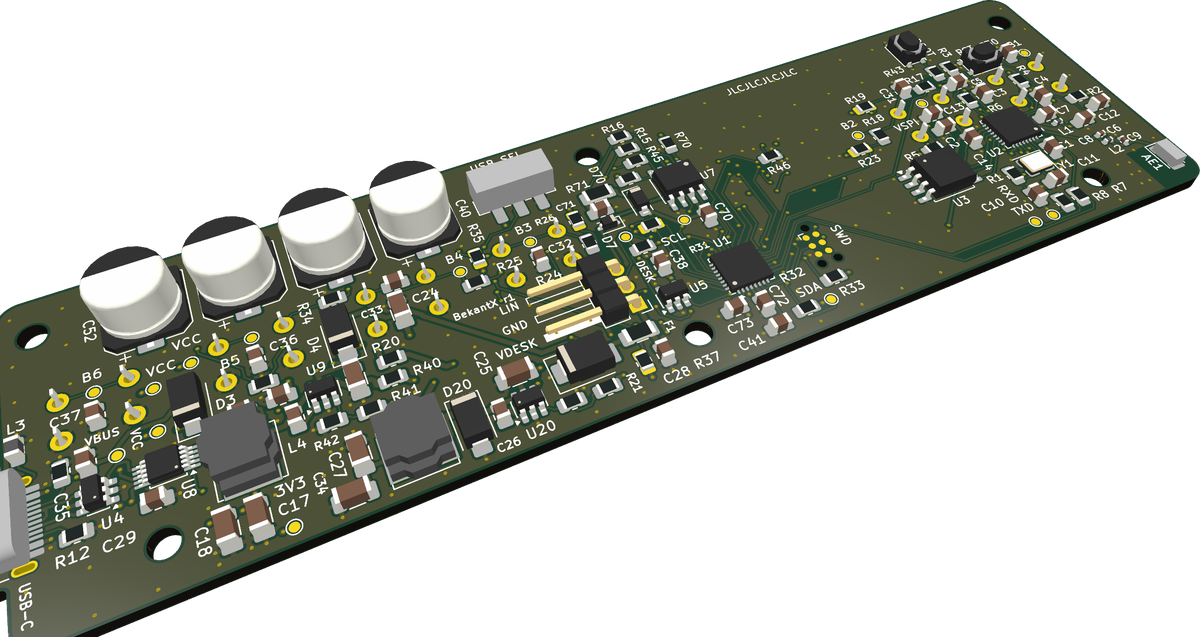
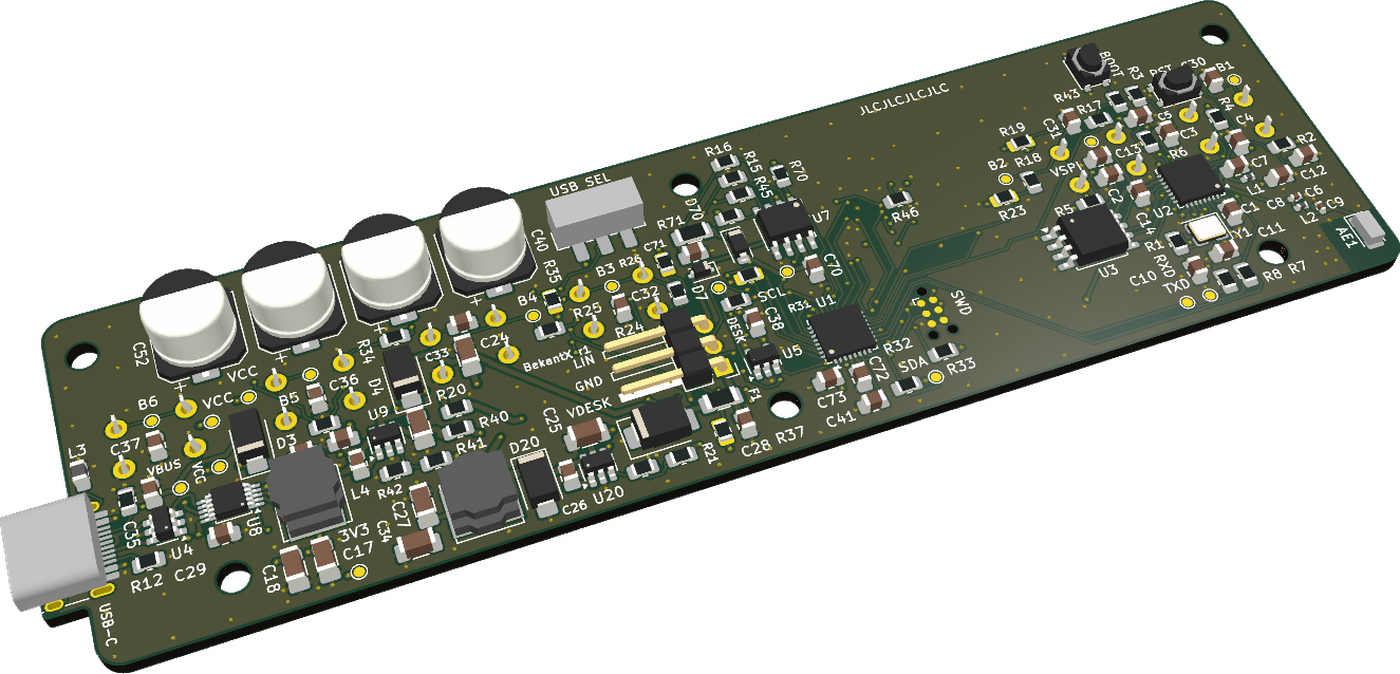
docs: Fix the README diagram and show the whole board in the title image (#7)
* docs: Fix the mermaid diagram and show the board in the open enclosure

- The HMI node used &quot; for the display size, which GitHub's mermaid
  parser rejects; it reads "1.29 in OLED" now.
- Title image: the board inside the open enclosure r3, rendered by KiCad
  with the case STEP added as a 3D model to a copy of the board (real
  solder mask, silkscreen and part colours).
- The isometric board view shows the whole board now and moves to the
  gallery.

* docs: Tilt the title image so that the whole board is visible

---------

diff --git a/README.md b/README.md
@@ -11,7 +11,7 @@
 [![ESP-IDF](https://img.shields.io/badge/ESP--IDF-C%2B%2B-e7352c)](https://github.com/espressif/esp-idf)
 [![Status: prototype](https://img.shields.io/badge/status-prototype%2C%20not%20yet%20built-orange)](#status)
 
-<img src="Docs/images/pcb_iso.png" alt="BekantX controller board, 3D render of the component side" width="820">
+<img src="Docs/images/enclosure_open.png" alt="BekantX controller board in the open 3D-printed enclosure (KiCad render)" width="860">
 
 </div>
 
@@ -49,6 +49,9 @@ tested the parts.
 
 <table>
   <tr>
+    <td align="center"><img src="Docs/images/pcb_iso.png" alt="Board component side, 3D view" width="100%"><br><sub>Component side: power input and regulators (left), STM32G0B1 (centre), ESP32-C3 with chip antenna (right)</sub></td>
+  </tr>
+  <tr>
     <td align="center"><img src="Docs/images/pcb_front.png" alt="Board front: buttons, OLED connector, title block with QR code" width="100%"><br><sub>Front: six buttons, OLED connector, status LEDs, title block with QR code</sub></td>
   </tr>
   <tr>
@@ -56,12 +59,11 @@ tested the parts.
   </tr>
 </table>
 
-<table>
-  <tr>
-    <td align="center" width="50%"><img src="Docs/images/enclosure_open.png" alt="Board inside the open enclosure" width="100%"><br><sub>Board in the enclosure r3 (lid removed)</sub></td>
-    <td align="center" width="50%"><img src="Docs/images/enclosure_front.png" alt="Closed enclosure, front with buttons and display window" width="100%"><br><sub>Front panel with the printed keypad and the display window</sub></td>
-  </tr>
-</table>
+<p align="center">
+  <img src="Docs/images/enclosure_front.png" alt="Closed enclosure, front with buttons and display window" width="520"><br>
+  <sub>Enclosure r3, front panel with the printed keypad and the display window. The title image shows the
+  board in the open case: a KiCad render with the case STEP added as a 3D model.</sub>
+</p>
 
 ## Architecture
 
@@ -71,7 +73,7 @@ flowchart LR
     subgraph board["BekantX controller board"]
         stm["STM32G0B1<br/><b>primary</b><br/>LIN, motion, limits,<br/>safety, memory"]
         esp["ESP32-C3<br/><b>secondary, optional</b><br/>Wi-Fi, MQTT"]
-        hmi["6 buttons, OLED 1.29&quot;,<br/>RGB and status LEDs"]
+        hmi["6 buttons, 1.29 in OLED,<br/>RGB and status LEDs"]
     end
     ha["Home Assistant"]
     desk <-- "LIN (TLIN1027)" --> stm
